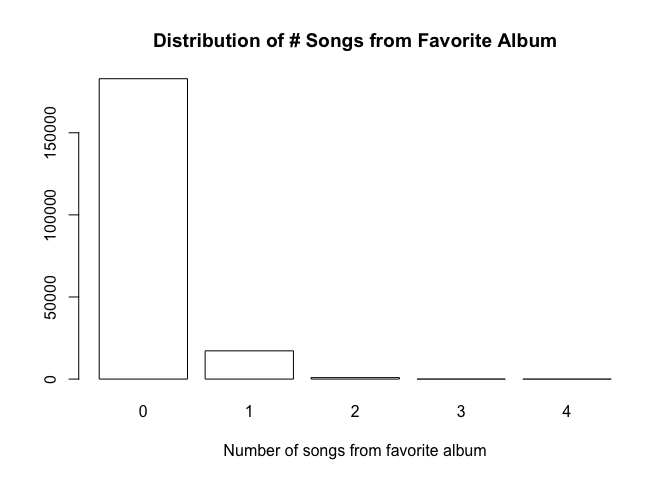
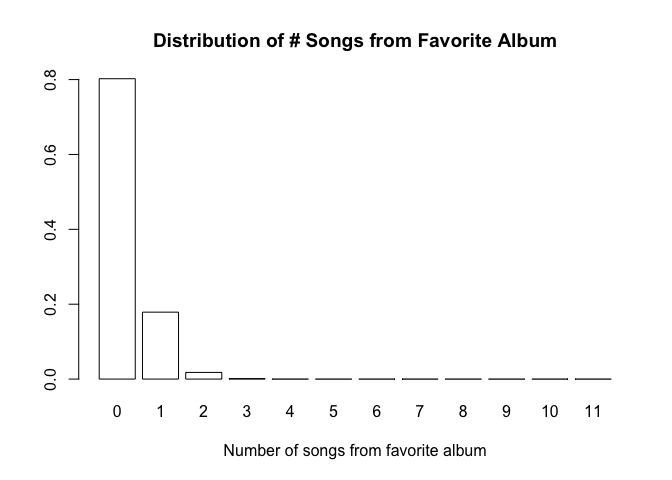
Fix solution since songs are with replacement

diff --git a/iPodSongProblem.md b/iPodSongProblem.md
@@ -21,25 +21,40 @@ For the PMF, we can use simulations to visually analyze the problem:
 ``` r
 all_songs <- c(rep(1, 10), rep(0, 490))
 
-num_iterations <- 10^6
+num_iterations <- 10^5
 
 single_simulation <- function() {
-  sum(sample(all_songs, 11))
+  sum(sample(all_songs, 11, replace = TRUE))
 }
 
-experimental_distribution <- tabulate(replicate(num_iterations, single_simulation()))
-print(experimental_distribution)
-```
+experimental_distribution <- tabulate(as.factor(replicate(num_iterations, single_simulation())), nbins=12) / num_iterations
 
-    ## [1] 182917  17190    891     23      1
-
-``` r
-barplot(experimental_distribution, 
-        xlab = 'Number of songs from favorite album', 
-        names.arg = 0:(length(experimental_distribution)-1), 
-        col = 'white',
-        main = 'Distribution of # Songs from Favorite Album'
-        )
+barplot(
+  experimental_distribution, 
+  xlab = 'Number of songs from favorite album', 
+  names.arg = 0:11,
+  col = 'white',
+  main = 'Distribution of # Songs from Favorite Album'
+)
 ```
 
 ![](iPodSongProblem_files/figure-markdown_github-ascii_identifiers/unnamed-chunk-1-1.png)
+
+Theoretically, this can be thought of as a binomial distribution. We can imagine the 10 favorite songs as successful cases, and the rest as failure. Probability of a song from the favorite album is 10/500 = 0.02. Therefore, P(X = x) = bin(11, 0.02). We can verify this in R:
+
+``` r
+theoretical_distribution <- dbinom(x = 0:11, size = 11, prob = 0.02)
+barplot(
+  theoretical_distribution,
+  xlab = 'Number of Songs from Favorite Album', 
+  names.arg = 0:11,
+  col = 'white',
+  main = 'Binomial Distribution of # Favorite Songs'
+)
+```
+
+![](iPodSongProblem_files/figure-markdown_github-ascii_identifiers/unnamed-chunk-2-1.png)
+
+Clearly, the experimental and theoretical distributions are identical.
+
+### Probability of 2 or More Songs from the Same Album
